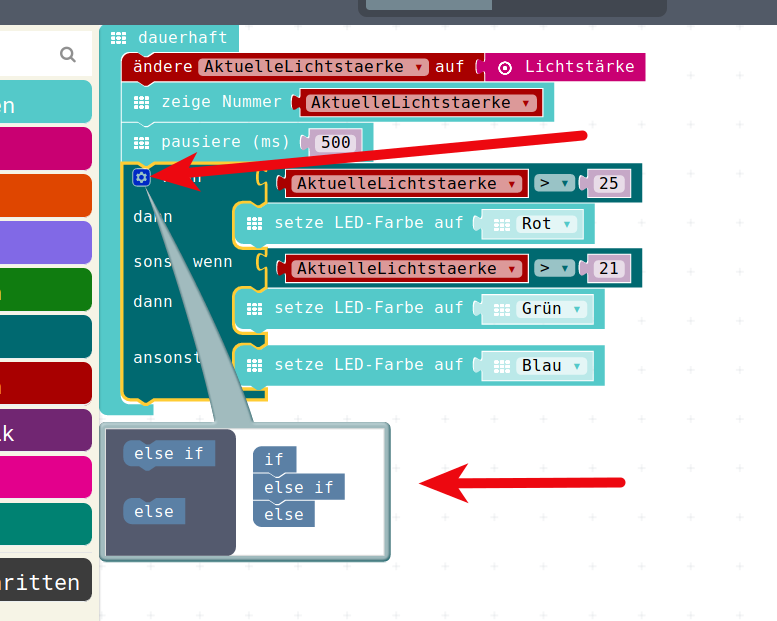
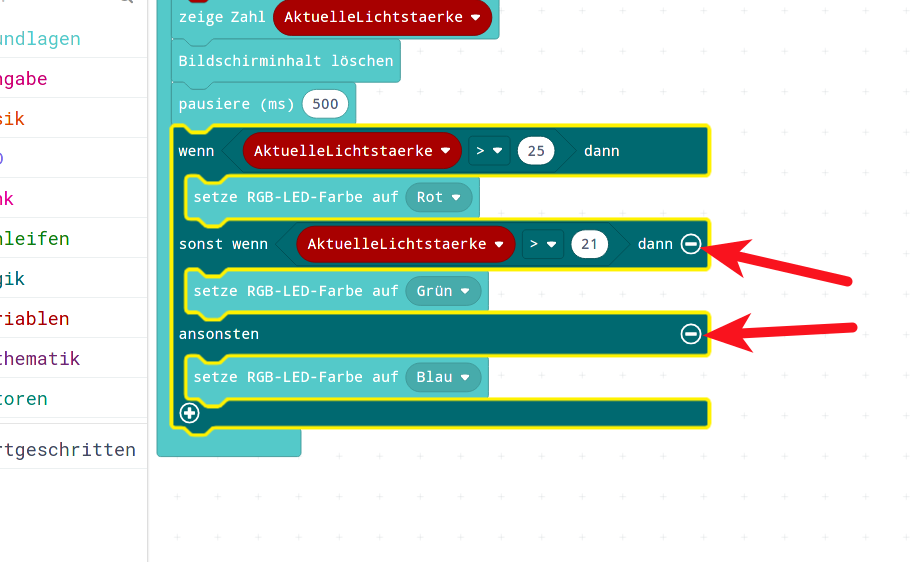
Nachbereitung Tag 3, Vorbereitung Tag 4

diff --git a/05_Tag3_Nachlese/05_02_SchubladenAlarm/README.md b/05_Tag3_Nachlese/05_02_SchubladenAlarm/README.md
@@ -12,7 +12,7 @@ Beim Abdecken des Calliope mit der Hand fallen die Werte dann sehr schnell auf c
 * Diese soll auf der gemessenen Helligkeit basieren.  
 * In der geschlossenen Schublade ist es dunkel
 * Das heisst niedere Messwerte
-* Wenn die Schublade geöffnet wird, dann wird (ausser in einem dunklen Zimmer...) in der Schublade hell
+* Wenn die Schublade geöffnet wird, dann wird es (ausser in einem dunklen Zimmer...) in der Schublade hell
 * Das heisst hohe Messwerte
 * Wir wollen also ab einem bestimmten Messwert, den Ihr Euch basierend auf den gerade gemachten Messungen selbst ausdenken könnt, etwas tun
 * Wir wollen einen kleinen Alarmton auslösen
@@ -42,32 +42,23 @@ Wir wollen
 * die Vergleiche sind wahrscheinlich noch falsch, 25 und 21 waren Temperatur-Vergleichswerte
 * Wir wollen die Reaktion ändern, wir wollen keine LED-Farbe ändern, sondern einen Ton produzieren.
 
-## Tool/Werkzeug-Box bei Wenn-Dann
+## Wenn-Dann Ansonsten aendern
 
-Zur Änderung des Wenn-Dann-Konstrukts öffnen wir wieder die Werkzeugbox durch das kleine Zahnrädchen.
+Zur Änderung des Wenn-Dann-Konstrukts löschen wir einfach die beiden überflüssigen Teile
+
+* Wir brauchen weder das __SonstWenn__ noch das __Sonst__
 
 ![](./pics/03_WennDannWerkzeug.png){height=60%}
 
-## Tool/Werkzeug-Box bei Wenn-Dann
+## Aufraeumen
 
-* Dort schieben wir wieder in der Miniatur-Version. 
-* Diesmal schieben wir von rechts nach links, das heisst wir machen unser Programm-Konstrukt viel kleiner
-* Wir brauchen weder das __SonstWenn__ noch das __Sonst__
-
-![](./pics/04_Miniatur.png){height=60%}
-
-## Tool/Werkzeug-Box bei Wenn-Dann
-
-Wenn wir das alles in unserer kleinen Werkzeugbox geschoben haben, 
-sieht unser Ergebnis in gross so aus: 
+Wenn wir nun noch die jetzt überflüssig gewordenen Teile "entsorgen" 
 
 ![](./pics/05_ErgebnisInGross.png){height=60%}
 
+## Zwischenergebnis
 
-## Tool/Werkzeug-Box bei Wenn-Dann
-
-Wenn wir nun noch die jetzt überflüssig gewordenen Teile "entsorgen", dann haben wir ein kompaktes Zwischenprogramm:
-
+dann haben wir ein kompaktes Zwischenprogramm:
 ![](./pics/06_ZwischenProgramm.png){height=60%}
 
 ## Musik/Alarmton 
@@ -160,10 +151,3 @@ basic.forever(() => {
 __Download Hex-Code__
 
 [Hex-code](code/mini-LichtMesser02.hex)
-
-
-## Lizenz/Copyright-Info
-Für alle Bilder auf diesen Folien/Seite gilt:
-
-* Autor: Jörg Künstner
-* Lizenz: CC BY-SA 4.0

diff --git a/06_Tag4/README.md b/06_Tag4/README.md
@@ -4,22 +4,26 @@
    
 ## Lektion / Nachmittag  4
 
-### Zusammenfassung 
+### Wiederholung  
 
 Heute wiederholen wir als erstes nochmal kurz das Gelernte vom letzten Nachmittag, 
 
 Wir schauen uns nochmal an, was das mit Logik, Wahrheit, Wahr oder Falsch auf sich hat.
 Und damit natürlich auch, wie das bei Entscheidungen genutzt werden kann.
-Also : Wenn xxx, Dann yyy
+
+Also : __Wenn__ xxx, __Dann__ yyy
 
 
-Darauf anscliessend schauen wir uns auch nochmal ein wichtiges Kapitel für die Software-Entwicklung, das Programmieren an:  
+### Zusammenfassung 
+
+Anschliessend schauen wir uns auch nochmal ein wichtiges Kapitel für die Software-Entwicklung, das Programmieren an:  
 Die __Schleife__ , neben der __Wenn-Dann__ - Konstruktion sicherlich das zweitwichtigste Element beim Programmieren!  
-Dazu schauen wir uns an, was es für Möglichkeiten gibt, den Bildschirm, unser Display mit 5x5 LEDs reihenweise, jede LED einzeln zu füllen.
+Dazu schauen wir uns an, wo uns die Schleifen-Programmierung das Programmierer-Leben erleichtert
+
 
 Daraufhin schauen wir uns kurz die allgemeine Funktion eines Motors an, sehen was es für verschiedene Arten von Elektro-Motoren gibt.
 
-Und dann fangen wir mit der Programmierung eines Servo-Motors an, probieren den Servo-Motor an verschiedene Positionen zu fahren und versuchen dann auf Tastendrücke zu reagieren.
+Und dann fangen wir mit der Programmierung eines DC-Motors an, sehen uns die Möglichkeiten des Calliope ein oder zwei Motoren zu steuern und versuchen dann auf Tastendrücke zu reagieren.
 
 
 ### Die einzelnen Kapitel
@@ -29,11 +33,4 @@ Und dann fangen wir mit der Programmierung eines Servo-Motors an, probieren den 
 * [03 Motoren Übersicht](06_03_Motoren/index.html)
 * [04 Ansteuerung von DC-Motoren](06_04_DC_Motoren/index.html)
 * [05 Lagesensor](06_05_LageSensor/index.html)
-
-
-## Navigation
-
-* [Zurück zu Tag 3 Hausaufgaben (SchubladenAlarm)](../05_Tag3_Nachlese/index.html)
-* [Hoch zur Übersicht](../index.html)
-* [Weiter zu Tag 4 Hausaufgaben (Schleifen)](../07_Tag4_Nachlese/index.html)
 

diff --git a/05_Tag3_Nachlese/05_01_LichtSensor/README.md b/05_Tag3_Nachlese/05_01_LichtSensor/README.md
@@ -47,8 +47,8 @@ Wir ziehen die __Temperatur__ aus dem Programm raus in die Arbeitsfläche und kl
 Bei der Programmierung ist fast nichts schlimmer, als Variablen-Namen, die falsch benannt sind.
 
 * Das haben wir jetzt aber gerade gemacht, wir haben ein Programm geschrieben,  
-* welches die __Lichtstärke__ misst u
-* nd diese in einer Variable namens __AktuelleTemperatur__ ablegt   
+* welches die __Lichtstärke__ misst
+* und diese in einer Variable namens __AktuelleTemperatur__ ablegt   
 * und anschliessend damit weiterarbeitet!  
 
 ## Variable umbenennen
@@ -125,13 +125,4 @@ basic.forever(() => {
 __Download Hex-Code__
 
 [Hex-code](code/mini-TemperaturMesser01.hex)
-
-
-
-## Lizenz/Copyright-Info
-
-Für alle Bilder auf diesen Folien/Seiten gilt:
-
-* Autor: Jörg Künstner
-* Lizenz: CC BY-SA 4.0
 

diff --git a/GESAMTKURS.md b/GESAMTKURS.md
@@ -17,7 +17,9 @@ __Herbst 2020__
 
 * [Do, 29.Okt : Tag 1, Kennenlernen, Simulator, Variablen, etc](01_Tag1/index.html)
 * [Do, 12.Nov : Tag 2, Elektronik, externe LEDs, Ampel, PINs abfragen etc](02_Tag2/index.html)
-* Do, 19.Nov : Tag 3, Wenn / Dann, RGB-Led, Temperatur-Sensor
+* [Do, 19.Nov : Tag 3, Wenn / Dann, RGB-Led, Temperatur-Sensor](04_Tag3/index.html)
+* "Hausaufgabe": Schubladen-Alarmanlage
+* Do, 03.Dez : Tag 4, Schleifen, Motoren-Ansteuerung, Lagesensor
 
 <!--
 

diff --git a/06_Tag4/06_03_Motoren/README.md b/06_Tag4/06_03_Motoren/README.md
@@ -136,14 +136,5 @@ Das hier ist ein Servo-Motor, er hat drei Anschlüsse,
 ## Was wir uns anschauen
 
 Wir schauen uns heute die Ansteuerung von normalen DC-Motoren (mit Getriebe) an.  
-Und beim nächsten Mal schauen wir uns evt. die Ansteuerung von Servo-Motoren (Servos) an.
-
-
-
-## Lizenz/Copyright-Info
-Für alle Texte und Bilder auf diesen Folien/Seiten gilt, soweit nicht anders unter dem Bild gekennzeichnet:
-
-* Autor: Jörg Künstner
-* Lizenz: CC BY-SA 4.0
 
 

diff --git a/06_Tag4/06_06_Mehr_Schleifen_Spass/README.md b/06_Tag4/06_06_Mehr_Schleifen_Spass/README.md
@@ -351,16 +351,9 @@ Schaut einmal zur Nachlese, zu den Hausaufgaben, da dürft Ihr dieses Bildschirm
 
 ## Navigation
 
+TODO: passt nicht mehr, wohin damit?
 
 * [Zurück](../06_01_Auffrischen/index.html)  
 * [Hoch zur Übersicht](../index.html)  
 * [Weiter](../06_03_Motoren/index.html)  
-
-
-
-## Lizenz/Copyright-Info
-Für alle Bilder auf dieser Seite gilt:
-
-*  Autor: Jörg Künstner
-* Lizenz: CC BY-SA 4.0
 

diff --git a/06_Tag4/ENDE.md b/06_Tag4/ENDE.md
@@ -1,0 +1,18 @@
+
+
+## Navigation
+
+* [Zurück zu Tag 3 Hausaufgaben (SchubladenAlarm)](../05_Tag3_Nachlese/index.html)
+* [Hoch zur Übersicht](../index.html)
+* [Weiter zu Tag 4 Hausaufgaben (Schleifen)](../07_Tag4_Nachlese/index.html)
+
+
+
+
+## Lizenz/Copyright-Info
+Für alle Bilder auf diesen Folien/Seiten gilt:
+
+* Autor: Jörg Künstner
+* Lizenz: CC BY-SA 4.0
+
+

diff --git a/05_Tag3_Nachlese/ENDE.md b/05_Tag3_Nachlese/ENDE.md
@@ -1,0 +1,17 @@
+
+## Navigation
+
+* [Zurück zu Tag 3](../04_Tag3/index.html)
+* [Hoch zur Übersicht](../index.html)
+* [Weiter zu Tag 4](../06_Tag4/index.html)
+
+
+
+
+# Lizenz/Copyright-Info
+
+Für alle Bilder auf diesen Folien/Seiten gilt:
+
+* Autor: Jörg Künstner
+* Lizenz: CC BY-SA 4.0
+

diff --git a/06_Tag4/06_02_Schleifen/README.md b/06_Tag4/06_02_Schleifen/README.md
@@ -192,9 +192,4 @@ Wenn wir diese Schleife benutzen und unser Programm entsprechend umgestalten, si
 
 \colEnd
 
-## Lizenz/Copyright-Info
-Für alle Texte und Bilder auf diesen Folien/Seiten gilt:
-
-* Autor: Jörg Künstner
-* Lizenz: CC BY-SA 4.0
 

diff --git a/05_Tag3_Nachlese/README.md b/05_Tag3_Nachlese/README.md
@@ -18,9 +18,4 @@ Viel Spass beim Nachbauen
 * [ Alarm-Anlage](05_02_SchubladenAlarm/index.html)  
 
 
-## Navigation
-
-* [Zurück zu Tag 3](../04_Tag3/index.html)
-* [Hoch zur Übersicht](../index.html)
-* [Weiter zu Tag 4](../06_Tag4/index.html)
 

diff --git a/06_Tag4/06_04_DC_Motoren/README.md b/06_Tag4/06_04_DC_Motoren/README.md
@@ -192,14 +192,3 @@ __Download Hex-Code__
 
 [Hex-code](code/mini-DC_Motor_VorRueck.hex)
 
-
-
-
-## Lizenz/Copyright-Info
-
-Für alle Bilder auf diesen Folien/Seiten gilt:
-
-* Autor: Jörg Künstner
-* Lizenz: CC BY-SA 4.0
-
- 

diff --git a/06_Tag4/06_05_LageSensor/README.md b/06_Tag4/06_05_LageSensor/README.md
@@ -112,12 +112,3 @@ __Download Hex-Code__
 [Hex-code](code/mini-DC_Motor_LageSensoren.hex)
 
 
-
-
-## Lizenz/Copyright-Info
-Für alle Bilder auf diesen Folien/Seiten gilt:
-
-* Autor: Jörg Künstner
-* Lizenz: CC BY-SA 4.0
-
- 
